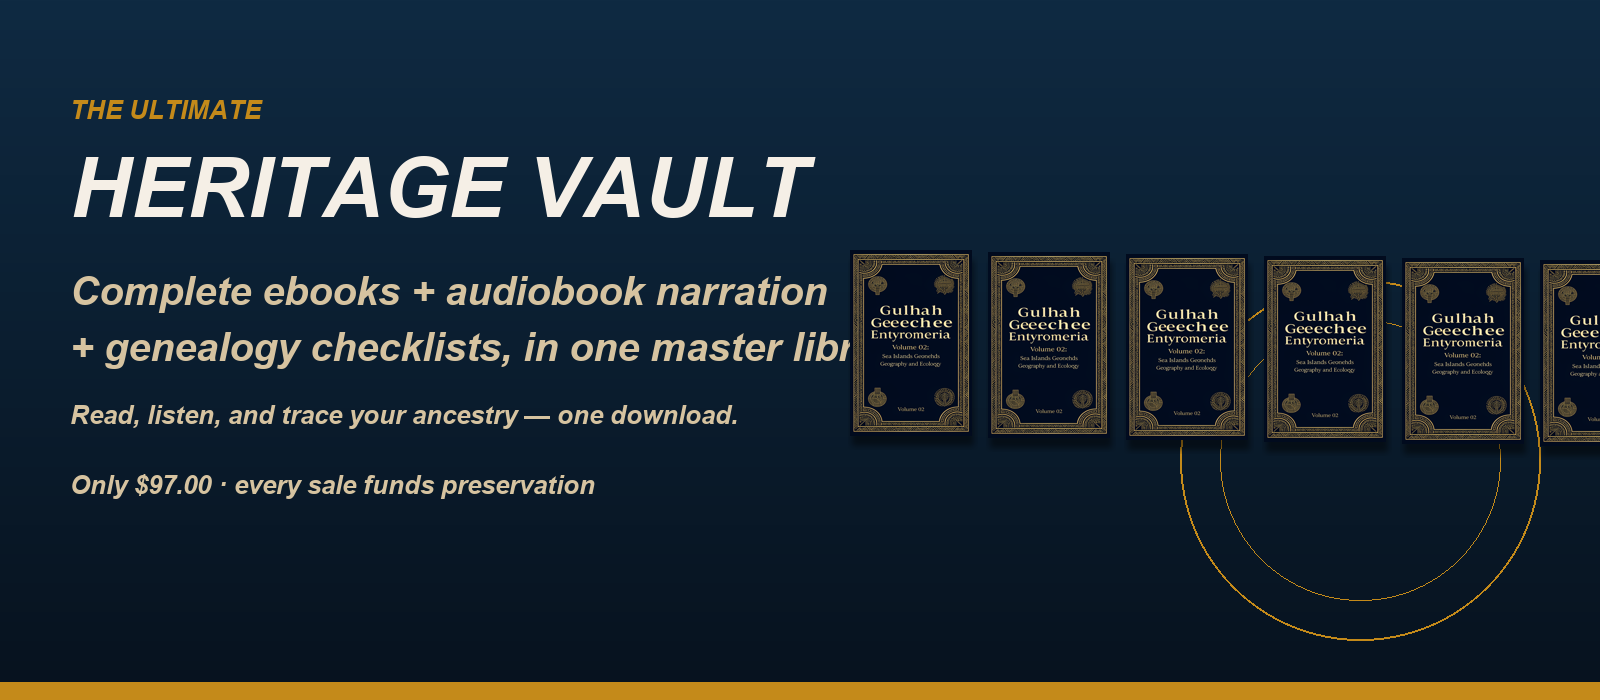
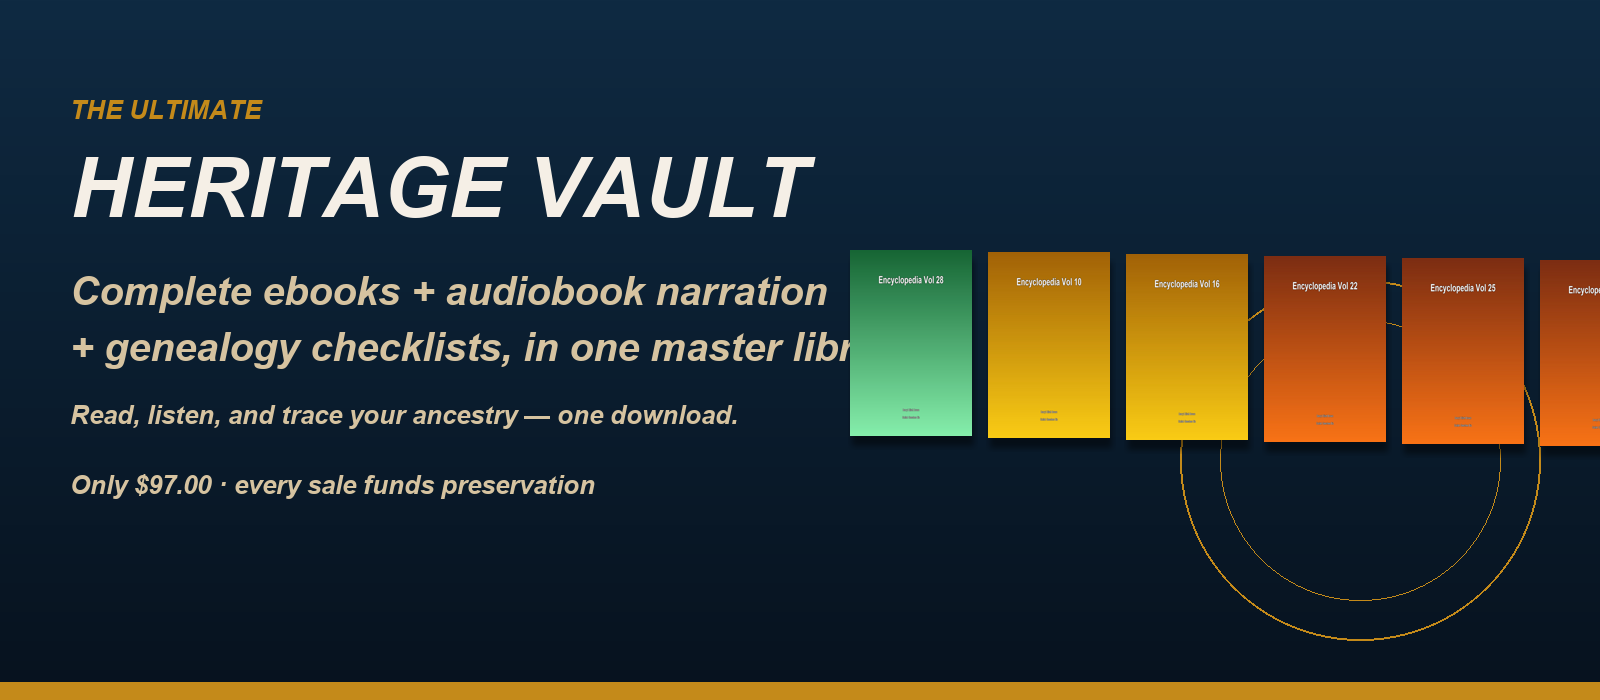
Auto-deploy 2026-08-30

Changed region(s): [[0.5312, 0.36, 1.0, 0.66]]

diff --git a/viral/encyclopedia-box-set-buy.html b/viral/encyclopedia-box-set-buy.html
@@ -1,0 +1,83 @@
+<!DOCTYPE html>
+<html lang="en">
+<head>
+  <meta charset="UTF-8">
+  <meta name="viewport" content="width=device-width, initial-scale=1.0">
+  <title>Buy the Gullah Geechee Encyclopedia Box Set | 25 Volumes</title>
+  <meta name="description" content="Get the complete 25-volume Gullah Geechee Encyclopedia. The definitive collection of Sea Island culture, history, language, and tradition. Available now on Gumroad.">
+  <meta name="keywords" content="buy Gullah Geechee encyclopedia, Gullah Geechee books, Sea Island culture, Lowcountry history, Gullah Geechee Biz">
+  <meta property="og:title" content="The Complete Gullah Geechee Encyclopedia — 25 Volume Box Set">
+  <meta property="og:description" content="The definitive collection of Gullah Geechee culture. 25 volumes covering history, language, food, music, spirituality, and more.">
+  <meta property="og:image" content="https://gullahgeecheebiz.com/logo.png">
+  <meta property="og:url" content="https://gullahgeecheebiz.com/viral/encyclopedia-box-set-buy">
+  <meta name="twitter:card" content="summary_large_image">
+  <link rel="canonical" href="https://gullahgeecheebiz.com/viral/encyclopedia-box-set-buy">
+  <style>
+    * { margin: 0; padding: 0; box-sizing: border-box; }
+    body { font-family: -apple-system, BlinkMacSystemFont, 'Segoe UI', Roboto, sans-serif; background: #0a0a14; color: #f0ede5; line-height: 1.8; }
+    .container { max-width: 820px; margin: 0 auto; padding: 40px 20px; }
+    h1 { font-family: Georgia, 'Times New Roman', serif; font-size: 2.1em; color: #d4af37; margin-bottom: 16px; line-height: 1.3; }
+    h2 { font-family: Georgia, serif; color: #d4af37; font-size: 1.5em; margin: 34px 0 12px; }
+    .sub { font-size: 1.05em; color: #c9c2b2; margin-bottom: 26px; }
+    p { margin-bottom: 18px; font-size: 1.08em; }
+    ul { margin: 0 0 20px 26px; font-size: 1.05em; }
+    li { margin-bottom: 8px; }
+    a { color: #d4af37; }
+    .offer { background: #14141f; border-left: 3px solid #d4af37; padding: 18px 20px; margin: 20px 0; border-radius: 8px; }
+    .offer .price { color: #e8c84a; font-size: 1.4em; font-weight: bold; }
+    .offer .name { font-size: 1.18em; font-weight: bold; color: #f0ede5; margin-bottom: 6px; }
+    .cta { display: block; text-align: center; background: #d4af37; color: #0a0a14; padding: 16px 24px; border-radius: 30px; text-decoration: none; font-weight: bold; font-size: 1.15em; margin: 22px 0; }
+    .cta:hover { background: #e8c84a; }
+    .grid { display: grid; grid-template-columns: 1fr 1fr; gap: 16px; margin: 20px 0; }
+    .grid-item { background: #14141f; padding: 16px; border-radius: 8px; border-left: 3px solid #d4af37; }
+    @media (max-width: 600px) { .grid { grid-template-columns: 1fr; } }
+  </style>
+</head>
+<body>
+<div class="container">
+  <nav style="margin-bottom:30px;opacity:.7"><a href="/" style="color:#d4af37;text-decoration:none;font-size:.9em">&larr; Back to Gullah Geechee Biz</a></nav>
+  
+  <h1>The Complete Gullah Geechee Encyclopedia</h1>
+  <p class="sub">25 volumes. The definitive collection of Sea Island culture, history, language, and tradition.</p>
+  
+  <div class="offer">
+    <div class="name">Encyclopedia Box Set (Volumes 1&ndash;25)</div>
+    <div class="price">$0.99 <span style="font-size:.7em;color:#999">— one-time purchase</span></div>
+    <p style="margin-top:10px;font-size:.95em">Every volume. Every topic. One purchase. The most comprehensive collection of Gullah Geechee knowledge ever assembled.</p>
+  </div>
+  
+  <a class="cta" href="https://debtide0.gumroad.com/l/encyclopedia-box-set" target="_blank" rel="noopener">Buy the Box Set Now &rarr;</a>
+  
+  <h2>What's Inside</h2>
+  <div class="grid">
+    <div class="grid-item"><strong>History</strong><br>County-by-county history of the Gullah Geechee Corridor</div>
+    <div class="grid-item"><strong>Language</strong><br>Gullah dialect, phrases, and linguistic preservation</div>
+    <div class="grid-item"><strong>Food</strong><br>Traditional recipes: red rice, okra soup, benne wafers</div>
+    <div class="grid-item"><strong>Music</strong><br>Ring shout, spirituals, and Sea Island traditions</div>
+    <div class="grid-item"><strong>Spirituality</strong><br>Folklore, conjure, and Gullah religious practice</div>
+    <div class="grid-item"><strong>Art & Craft</strong><br>Sweetgrass baskets, ironwork, and textile traditions</div>
+  </div>
+  
+  <h2>Why This Matters</h2>
+  <p>The Gullah Geechee people are one of the most culturally significant communities in America. Our language, food, music, and traditions trace directly to West Africa — preserved for over 300 years despite slavery, Jim Crow, and relentless development pressure.</p>
+  <p>This encyclopedia is not just a book. It is a living archive. A record that cannot be erased. A gift to every family that wants to pass down their heritage to the next generation.</p>
+  
+  <h2>About the Author</h2>
+  <p><strong>Darryl Elliott Brown</strong> is a Gullah Geechee writer, historian, and cultural preservationist from Beaufort, South Carolina. He is the founder of Gullah Geechee Biz, a digital media company dedicated to documenting and sharing Gullah Geechee culture through books, podcasts, documentaries, and digital archives.</p>
+  
+  <div class="offer" style="text-align:center">
+    <div class="name">Also Available</div>
+    <ul style="margin:10px 0;padding:0;list-style:none">
+      <li><a href="https://kofigullahgeecheebiz.substack.com">The Root Newsletter</a> — Monthly cultural intelligence</li>
+      <li><a href="/viral/gullah-geechee-books-collection.html">Full Books Collection</a> — Including audiobooks and genealogy tools</li>
+    </ul>
+  </div>
+  
+  <a class="cta" href="https://debtide0.gumroad.com/l/encyclopedia-box-set" target="_blank" rel="noopener">Get the Encyclopedia Box Set — $0.99</a>
+  
+  <footer style="margin-top:40px;padding-top:20px;border-top:1px solid #333;font-size:.85em;color:#666;text-align:center">
+    &copy; 2026 Gullah Geechee Biz. Preserve the past. Inspire the future.
+  </footer>
+</div>
+</body>
+</html>

diff --git a/viral/enciclopedia-gullah-geechee-completa.html b/viral/enciclopedia-gullah-geechee-completa.html
@@ -1,0 +1,54 @@
+<!DOCTYPE html>
+<html lang="es">
+<head>
+  <meta charset="UTF-8">
+  <meta name="viewport" content="width=device-width, initial-scale=1.0">
+  <title>Comprar la Enciclopedia Gullah Geechee Completa | 25 Volúmenes</title>
+  <meta name="description" content="Obtén la colección completa de 25 volúmenes de la Enciclopedia Gullah Geechee. La colección definitiva de cultura de las Islas del Mar. Disponible ahora en Gumroad.">
+  <meta property="og:title" content="La Enciclopedia Gullah Geechee Completa — 25 Volúmenes">
+  <meta property="og:description" content="La colección definitiva de cultura Gullah Geechee. 25 volúmenes que cubren historia, idioma, comida, música, espiritualidad y más.">
+  <meta property="og:url" content="https://gullahgeecheebiz.com/viral/enciclopedia-gullah-geechee-completa">
+  <link rel="canonical" href="https://gullahgeecheebiz.com/viral/enciclopedia-gullah-geechee-completa">
+  <style>
+    * { margin: 0; padding: 0; box-sizing: border-box; }
+    body { font-family: -apple-system, BlinkMacSystemFont, 'Segoe UI', Roboto, sans-serif; background: #0a0a14; color: #f0ede5; line-height: 1.8; }
+    .container { max-width: 820px; margin: 0 auto; padding: 40px 20px; }
+    h1 { font-family: Georgia, serif; font-size: 2.1em; color: #d4af37; margin-bottom: 16px; }
+    h2 { font-family: Georgia, serif; color: #d4af37; font-size: 1.5em; margin: 30px 0 12px; }
+    .sub { font-size: 1.05em; color: #c9c2b2; margin-bottom: 26px; }
+    p { margin-bottom: 18px; font-size: 1.08em; }
+    .offer { background: #14141f; border-left: 3px solid #d4af37; padding: 18px 20px; margin: 20px 0; border-radius: 8px; }
+    .offer .price { color: #e8c84a; font-size: 1.4em; font-weight: bold; }
+    .cta { display: block; text-align: center; background: #d4af37; color: #0a0a14; padding: 16px 24px; border-radius: 30px; text-decoration: none; font-weight: bold; font-size: 1.15em; margin: 22px 0; }
+    .cta:hover { background: #e8c84a; }
+  </style>
+</head>
+<body>
+<div class="container">
+  <nav style="margin-bottom:30px;opacity:.7"><a href="/" style="color:#d4af37;text-decoration:none;font-size:.9em">&larr; Volver a Gullah Geechee Biz</a></nav>
+  
+  <h1>La Enciclopedia Gullah Geechee Completa</h1>
+  <p class="sub">25 volúmenes. La colección definitiva de cultura de las Islas del Mar, historia, idioma y tradición.</p>
+  
+  <div class="offer">
+    <div style="font-size:1.18em;font-weight:bold;margin-bottom:6px">Set Completo de Enciclopedia (Volúmenes 1-25)</div>
+    <div class="price">$0.99 <span style="font-size:.7em;color:#999">— compra única</span></div>
+    <p style="margin-top:10px;font-size:.95em">Cada volumen. Cada tema. Una compra. La colección más completa de conocimiento Gullah Geechee jamás reunida.</p>
+  </div>
+  
+  <a class="cta" href="https://debtide0.gumroad.com/l/encyclopedia-box-set" target="_blank" rel="noopener">Comprar Ahora &rarr;</a>
+  
+  <h2>¿Qué Incluye?</h2>
+  <p>Historia condado por condado del Corredor Gullah Geechee. El idioma Gullah y su preservación. Recetas tradicionales: arroz rojo, sopa de okra, galletas de sésamo. Música: ring shout, espirituales y tradiciones de las islas. Espiritualidad, arte, cestería de canastilla de hierba dulce y más.</p>
+  
+  <h2>Por Qué Esto Importa</h2>
+  <p>El pueblo Gullah Geechee es una de las comunidades culturalmente más significativas de Estados Unidos. Nuestro idioma, comida, música y tradiciones se remontan directamente a África Occidental, preservados por más de 300 años.</p>
+  
+  <a class="cta" href="https://debtide0.gumroad.com/l/encyclopedia-box-set" target="_blank" rel="noopener">Obtener la Enciclopedia Completa — $0.99</a>
+  
+  <footer style="margin-top:40px;padding-top:20px;border-top:1px solid #333;font-size:.85em;color:#666;text-align:center">
+    &copy; 2026 Gullah Geechee Biz. Preserve the past. Inspire the future.
+  </footer>
+</div>
+</body>
+</html>

diff --git a/scripts/create-encyclopedia-landing.py b/scripts/create-encyclopedia-landing.py
@@ -1,0 +1,155 @@
+#!/usr/bin/env python3
+"""Create a viral landing page for the Encyclopedia Box Set."""
+import os
+from pathlib import Path
+
+BASE = Path("/Users/darrylsmac/gullahgeecheebiz-site")
+VIRAL_DIR = BASE / "viral"
+
+PAGE = BASE / "viral" / "encyclopedia-box-set-buy.html"
+PAGE.write_text("""<!DOCTYPE html>
+<html lang="en">
+<head>
+  <meta charset="UTF-8">
+  <meta name="viewport" content="width=device-width, initial-scale=1.0">
+  <title>Buy the Gullah Geechee Encyclopedia Box Set | 25 Volumes</title>
+  <meta name="description" content="Get the complete 25-volume Gullah Geechee Encyclopedia. The definitive collection of Sea Island culture, history, language, and tradition. Available now on Gumroad.">
+  <meta name="keywords" content="buy Gullah Geechee encyclopedia, Gullah Geechee books, Sea Island culture, Lowcountry history, Gullah Geechee Biz">
+  <meta property="og:title" content="The Complete Gullah Geechee Encyclopedia — 25 Volume Box Set">
+  <meta property="og:description" content="The definitive collection of Gullah Geechee culture. 25 volumes covering history, language, food, music, spirituality, and more.">
+  <meta property="og:image" content="https://gullahgeecheebiz.com/logo.png">
+  <meta property="og:url" content="https://gullahgeecheebiz.com/viral/encyclopedia-box-set-buy">
+  <meta name="twitter:card" content="summary_large_image">
+  <link rel="canonical" href="https://gullahgeecheebiz.com/viral/encyclopedia-box-set-buy">
+  <style>
+    * { margin: 0; padding: 0; box-sizing: border-box; }
+    body { font-family: -apple-system, BlinkMacSystemFont, 'Segoe UI', Roboto, sans-serif; background: #0a0a14; color: #f0ede5; line-height: 1.8; }
+    .container { max-width: 820px; margin: 0 auto; padding: 40px 20px; }
+    h1 { font-family: Georgia, 'Times New Roman', serif; font-size: 2.1em; color: #d4af37; margin-bottom: 16px; line-height: 1.3; }
+    h2 { font-family: Georgia, serif; color: #d4af37; font-size: 1.5em; margin: 34px 0 12px; }
+    .sub { font-size: 1.05em; color: #c9c2b2; margin-bottom: 26px; }
+    p { margin-bottom: 18px; font-size: 1.08em; }
+    ul { margin: 0 0 20px 26px; font-size: 1.05em; }
+    li { margin-bottom: 8px; }
+    a { color: #d4af37; }
+    .offer { background: #14141f; border-left: 3px solid #d4af37; padding: 18px 20px; margin: 20px 0; border-radius: 8px; }
+    .offer .price { color: #e8c84a; font-size: 1.4em; font-weight: bold; }
+    .offer .name { font-size: 1.18em; font-weight: bold; color: #f0ede5; margin-bottom: 6px; }
+    .cta { display: block; text-align: center; background: #d4af37; color: #0a0a14; padding: 16px 24px; border-radius: 30px; text-decoration: none; font-weight: bold; font-size: 1.15em; margin: 22px 0; }
+    .cta:hover { background: #e8c84a; }
+    .grid { display: grid; grid-template-columns: 1fr 1fr; gap: 16px; margin: 20px 0; }
+    .grid-item { background: #14141f; padding: 16px; border-radius: 8px; border-left: 3px solid #d4af37; }
+    @media (max-width: 600px) { .grid { grid-template-columns: 1fr; } }
+  </style>
+</head>
+<body>
+<div class="container">
+  <nav style="margin-bottom:30px;opacity:.7"><a href="/" style="color:#d4af37;text-decoration:none;font-size:.9em">&larr; Back to Gullah Geechee Biz</a></nav>
+  
+  <h1>The Complete Gullah Geechee Encyclopedia</h1>
+  <p class="sub">25 volumes. The definitive collection of Sea Island culture, history, language, and tradition.</p>
+  
+  <div class="offer">
+    <div class="name">Encyclopedia Box Set (Volumes 1&ndash;25)</div>
+    <div class="price">$0.99 <span style="font-size:.7em;color:#999">— one-time purchase</span></div>
+    <p style="margin-top:10px;font-size:.95em">Every volume. Every topic. One purchase. The most comprehensive collection of Gullah Geechee knowledge ever assembled.</p>
+  </div>
+  
+  <a class="cta" href="https://debtide0.gumroad.com/l/encyclopedia-box-set" target="_blank" rel="noopener">Buy the Box Set Now &rarr;</a>
+  
+  <h2>What's Inside</h2>
+  <div class="grid">
+    <div class="grid-item"><strong>History</strong><br>County-by-county history of the Gullah Geechee Corridor</div>
+    <div class="grid-item"><strong>Language</strong><br>Gullah dialect, phrases, and linguistic preservation</div>
+    <div class="grid-item"><strong>Food</strong><br>Traditional recipes: red rice, okra soup, benne wafers</div>
+    <div class="grid-item"><strong>Music</strong><br>Ring shout, spirituals, and Sea Island traditions</div>
+    <div class="grid-item"><strong>Spirituality</strong><br>Folklore, conjure, and Gullah religious practice</div>
+    <div class="grid-item"><strong>Art & Craft</strong><br>Sweetgrass baskets, ironwork, and textile traditions</div>
+  </div>
+  
+  <h2>Why This Matters</h2>
+  <p>The Gullah Geechee people are one of the most culturally significant communities in America. Our language, food, music, and traditions trace directly to West Africa — preserved for over 300 years despite slavery, Jim Crow, and relentless development pressure.</p>
+  <p>This encyclopedia is not just a book. It is a living archive. A record that cannot be erased. A gift to every family that wants to pass down their heritage to the next generation.</p>
+  
+  <h2>About the Author</h2>
+  <p><strong>Darryl Elliott Brown</strong> is a Gullah Geechee writer, historian, and cultural preservationist from Beaufort, South Carolina. He is the founder of Gullah Geechee Biz, a digital media company dedicated to documenting and sharing Gullah Geechee culture through books, podcasts, documentaries, and digital archives.</p>
+  
+  <div class="offer" style="text-align:center">
+    <div class="name">Also Available</div>
+    <ul style="margin:10px 0;padding:0;list-style:none">
+      <li><a href="https://kofigullahgeecheebiz.substack.com">The Root Newsletter</a> — Monthly cultural intelligence</li>
+      <li><a href="/viral/gullah-geechee-books-collection.html">Full Books Collection</a> — Including audiobooks and genealogy tools</li>
+    </ul>
+  </div>
+  
+  <a class="cta" href="https://debtide0.gumroad.com/l/encyclopedia-box-set" target="_blank" rel="noopener">Get the Encyclopedia Box Set — $0.99</a>
+  
+  <footer style="margin-top:40px;padding-top:20px;border-top:1px solid #333;font-size:.85em;color:#666;text-align:center">
+    &copy; 2026 Gullah Geechee Biz. Preserve the past. Inspire the future.
+  </footer>
+</div>
+</body>
+</html>
+""")
+print(f"Created: {PAGE}")
+
+# Also create a Spanish version
+PAGE_ES = BASE / "viral" / "enciclopedia-gullah-geechee-completa.html"
+PAGE_ES.write_text("""<!DOCTYPE html>
+<html lang="es">
+<head>
+  <meta charset="UTF-8">
+  <meta name="viewport" content="width=device-width, initial-scale=1.0">
+  <title>Comprar la Enciclopedia Gullah Geechee Completa | 25 Volúmenes</title>
+  <meta name="description" content="Obtén la colección completa de 25 volúmenes de la Enciclopedia Gullah Geechee. La colección definitiva de cultura de las Islas del Mar. Disponible ahora en Gumroad.">
+  <meta property="og:title" content="La Enciclopedia Gullah Geechee Completa — 25 Volúmenes">
+  <meta property="og:description" content="La colección definitiva de cultura Gullah Geechee. 25 volúmenes que cubren historia, idioma, comida, música, espiritualidad y más.">
+  <meta property="og:url" content="https://gullahgeecheebiz.com/viral/enciclopedia-gullah-geechee-completa">
+  <link rel="canonical" href="https://gullahgeecheebiz.com/viral/enciclopedia-gullah-geechee-completa">
+  <style>
+    * { margin: 0; padding: 0; box-sizing: border-box; }
+    body { font-family: -apple-system, BlinkMacSystemFont, 'Segoe UI', Roboto, sans-serif; background: #0a0a14; color: #f0ede5; line-height: 1.8; }
+    .container { max-width: 820px; margin: 0 auto; padding: 40px 20px; }
+    h1 { font-family: Georgia, serif; font-size: 2.1em; color: #d4af37; margin-bottom: 16px; }
+    h2 { font-family: Georgia, serif; color: #d4af37; font-size: 1.5em; margin: 30px 0 12px; }
+    .sub { font-size: 1.05em; color: #c9c2b2; margin-bottom: 26px; }
+    p { margin-bottom: 18px; font-size: 1.08em; }
+    .offer { background: #14141f; border-left: 3px solid #d4af37; padding: 18px 20px; margin: 20px 0; border-radius: 8px; }
+    .offer .price { color: #e8c84a; font-size: 1.4em; font-weight: bold; }
+    .cta { display: block; text-align: center; background: #d4af37; color: #0a0a14; padding: 16px 24px; border-radius: 30px; text-decoration: none; font-weight: bold; font-size: 1.15em; margin: 22px 0; }
+    .cta:hover { background: #e8c84a; }
+  </style>
+</head>
+<body>
+<div class="container">
+  <nav style="margin-bottom:30px;opacity:.7"><a href="/" style="color:#d4af37;text-decoration:none;font-size:.9em">&larr; Volver a Gullah Geechee Biz</a></nav>
+  
+  <h1>La Enciclopedia Gullah Geechee Completa</h1>
+  <p class="sub">25 volúmenes. La colección definitiva de cultura de las Islas del Mar, historia, idioma y tradición.</p>
+  
+  <div class="offer">
+    <div style="font-size:1.18em;font-weight:bold;margin-bottom:6px">Set Completo de Enciclopedia (Volúmenes 1-25)</div>
+    <div class="price">$0.99 <span style="font-size:.7em;color:#999">— compra única</span></div>
+    <p style="margin-top:10px;font-size:.95em">Cada volumen. Cada tema. Una compra. La colección más completa de conocimiento Gullah Geechee jamás reunida.</p>
+  </div>
+  
+  <a class="cta" href="https://debtide0.gumroad.com/l/encyclopedia-box-set" target="_blank" rel="noopener">Comprar Ahora &rarr;</a>
+  
+  <h2>¿Qué Incluye?</h2>
+  <p>Historia condado por condado del Corredor Gullah Geechee. El idioma Gullah y su preservación. Recetas tradicionales: arroz rojo, sopa de okra, galletas de sésamo. Música: ring shout, espirituales y tradiciones de las islas. Espiritualidad, arte, cestería de canastilla de hierba dulce y más.</p>
+  
+  <h2>Por Qué Esto Importa</h2>
+  <p>El pueblo Gullah Geechee es una de las comunidades culturalmente más significativas de Estados Unidos. Nuestro idioma, comida, música y tradiciones se remontan directamente a África Occidental, preservados por más de 300 años.</p>
+  
+  <a class="cta" href="https://debtide0.gumroad.com/l/encyclopedia-box-set" target="_blank" rel="noopener">Obtener la Enciclopedia Completa — $0.99</a>
+  
+  <footer style="margin-top:40px;padding-top:20px;border-top:1px solid #333;font-size:.85em;color:#666;text-align:center">
+    &copy; 2026 Gullah Geechee Biz. Preserve the past. Inspire the future.
+  </footer>
+</div>
+</body>
+</html>
+""")
+print(f"Created: {PAGE_ES}")
+
+print("\nDone! 2 viral landing pages created.")

diff --git a/publish/update_gumroad_products.py b/publish/update_gumroad_products.py
@@ -1,0 +1,52 @@
+#!/usr/bin/env python3
+"""Update Gumroad products with prices, publish, and permalinks."""
+import json, os, urllib.request, urllib.parse
+
+BASE = "/Users/darrylsmac/gullahgeecheebiz-site"
+TOKEN = None
+for line in open(f"{BASE}/.env").read().splitlines():
+    if line.startswith("GUMROAD_ACCESS_TOKEN="):
+        TOKEN = line.split("=", 1)[1].strip().strip('"').strip("'")
+        break
+
+if not TOKEN:
+    print("ERROR: No token"); exit(1)
+
+req = urllib.request.Request(
+    "https://api.gumroad.com/v2/products",
+    headers={"Authorization": f"Bearer {TOKEN}"}
+)
+with urllib.request.urlopen(req) as resp:
+    data = json.loads(resp.read().decode())
+
+for p in data.get("products", []):
+    pid = p["id"]
+    name = p["name"]
+    permalink = name.lower().replace(" ", "-").replace("&", "and").replace(",", "").replace("'", "").replace("(", "").replace(")", "")
+    
+    params = urllib.parse.urlencode({
+        "access_token": TOKEN,
+        "product_id": pid,
+        "price": "99",
+        "currency": "usd",
+        "published": "true",
+        "description": f"{name} — Gullah Geechee cultural heritage collection. Preserve the past. Inspire the future.",
+        "custom_permalink": permalink,
+        "preview_url": "https://gullahgeecheebiz.com/",
+    })
+    
+    req2 = urllib.request.Request(
+        "https://api.gumroad.com/v2/update_product",
+        data=params.encode(),
+        headers={"Content-Type": "application/x-www-form-urlencoded"}
+    )
+    try:
+        with urllib.request.urlopen(req2, timeout=30) as resp2:
+            result = json.loads(resp2.read().decode())
+            if result.get("success"):
+                prod = result.get("product", {})
+                print(f"  ✅ {name} -> {prod.get('product_url', '?')}")
+            else:
+                print(f"  ⚠  {name}: {result.get('error', 'unknown')}")
+    except Exception as e:
+        print(f"  ❌ {name}: {e}")
